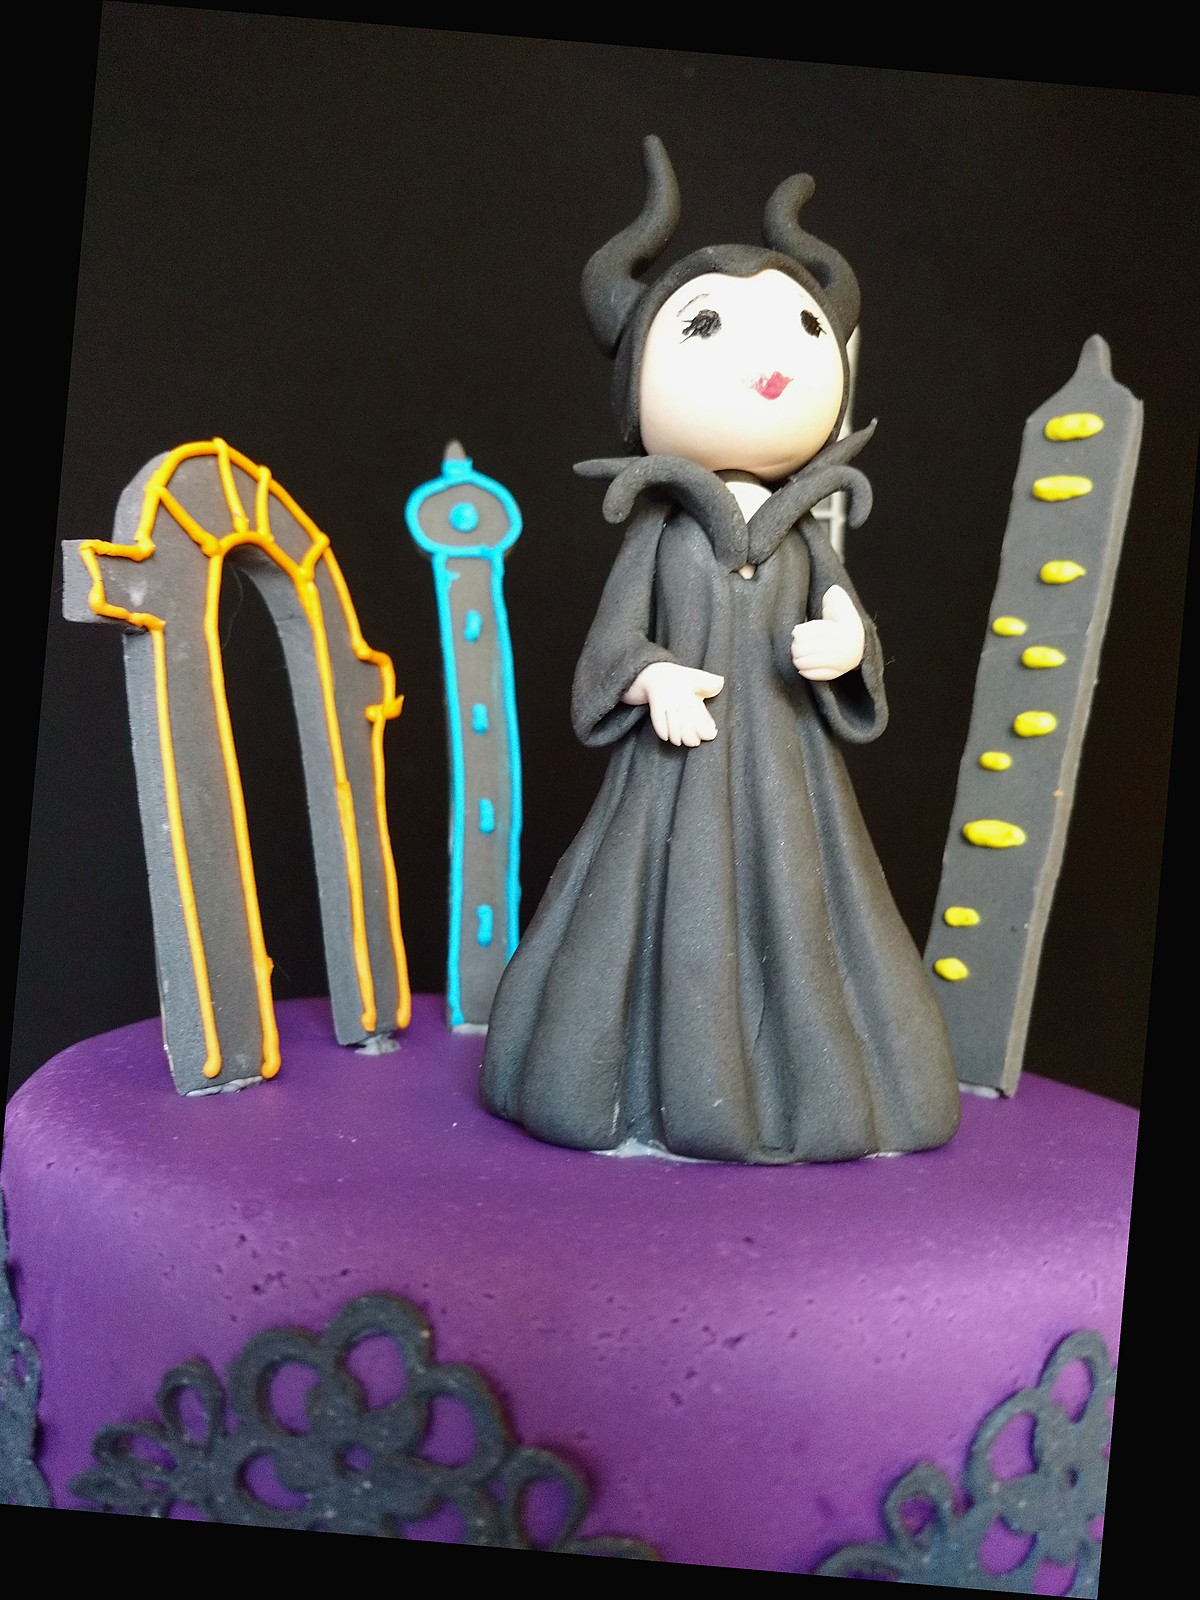
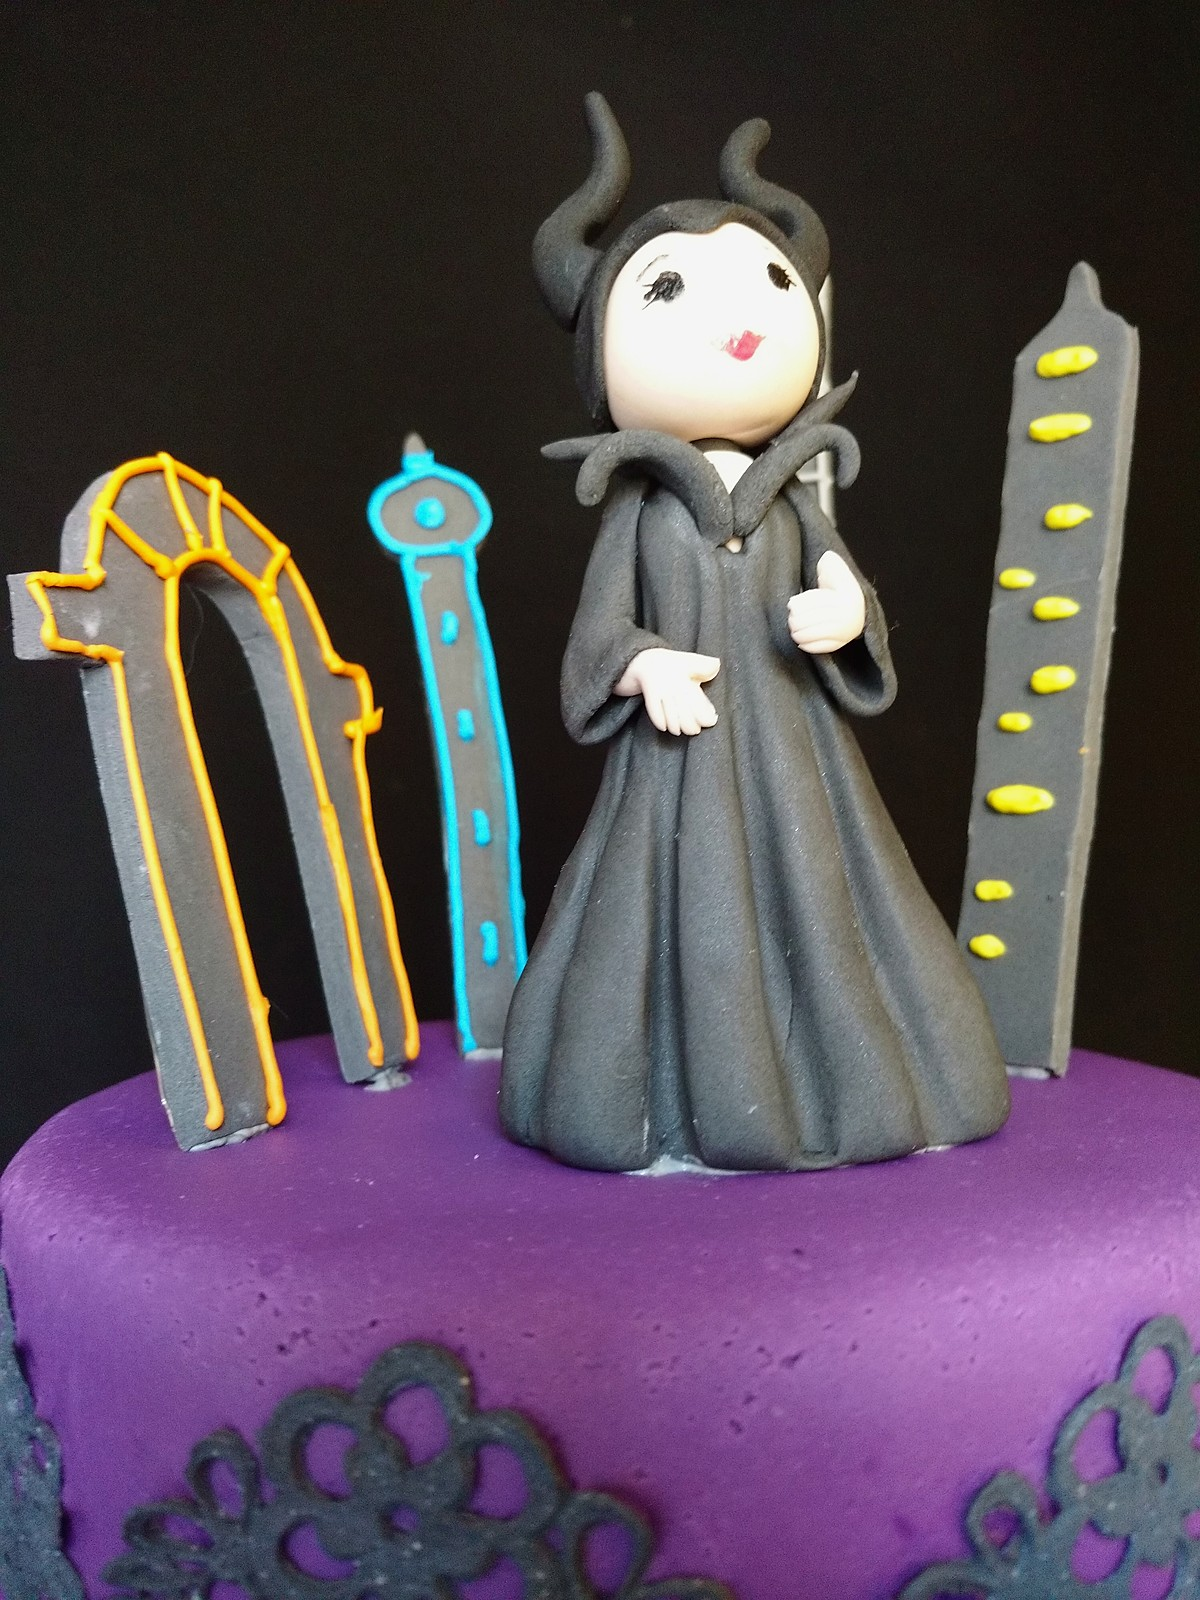
fix: Mamabel skip fake deskew on perspective cake shots

diff --git a/scripts/improve-mamabel-picked.py b/scripts/improve-mamabel-picked.py
@@ -16,8 +16,8 @@ JOBS: list[tuple[str, str, int, float]] = [
     ("black-bows.jpg", "SANY0080.JPG", 1920, 0.0),
     ("black-elegant.jpg", "20140405_190202.jpg", 1600, -2.4),
     ("black-cars.jpg", "SANY0091.JPG", 1600, 0.0),
-    ("black-maleficent.jpg", "IMG_20170421_092050558.jpg", 1600, 5.0),
-    ("black-rock.jpg", "10626226_689149541176572_5720908616390328413_o.jpg", 1600, 1.5),
+    ("black-maleficent.jpg", "IMG_20170421_092050558.jpg", 1600, 0.0),  # perspective, not horizon tilt
+    ("black-rock.jpg", "10626226_689149541176572_5720908616390328413_o.jpg", 1600, 0.0),
     ("black-ddm.jpg", "17966385_1325778770846976_1790103810812018808_o.jpg", 1600, 0.0),
     ("black-bluebow.jpg", "IMG-20140509-WA0041.jpg", 1200, 0.0),
     ("black-cupcakes-books.jpg", "SANY0074.JPG", 1600, 0.0),
